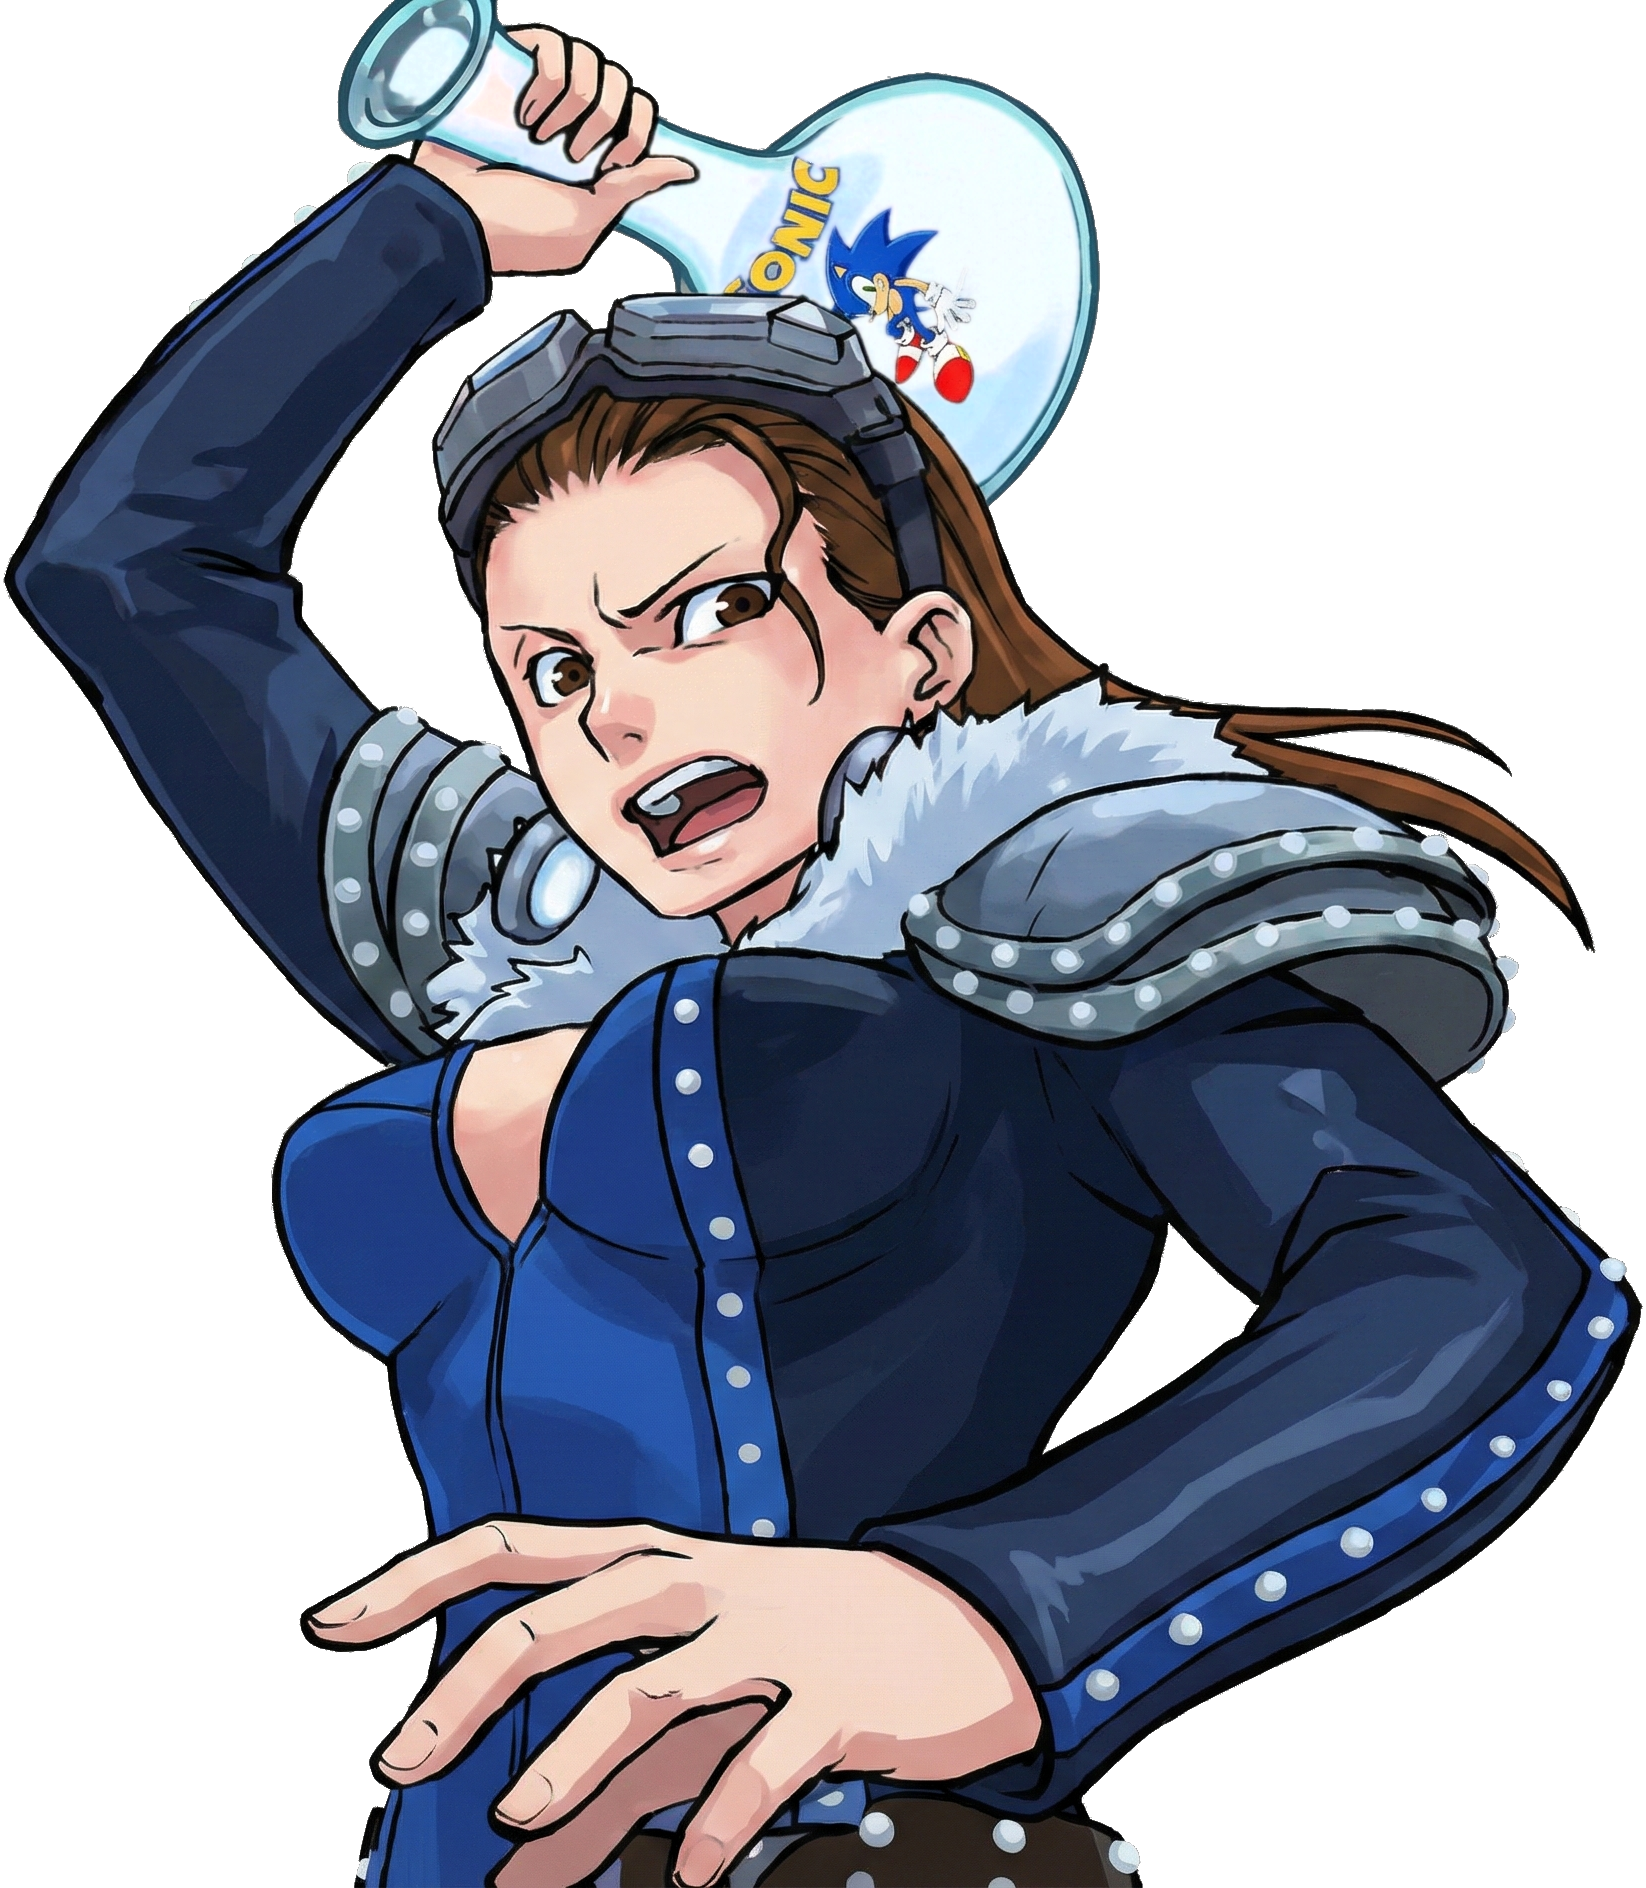
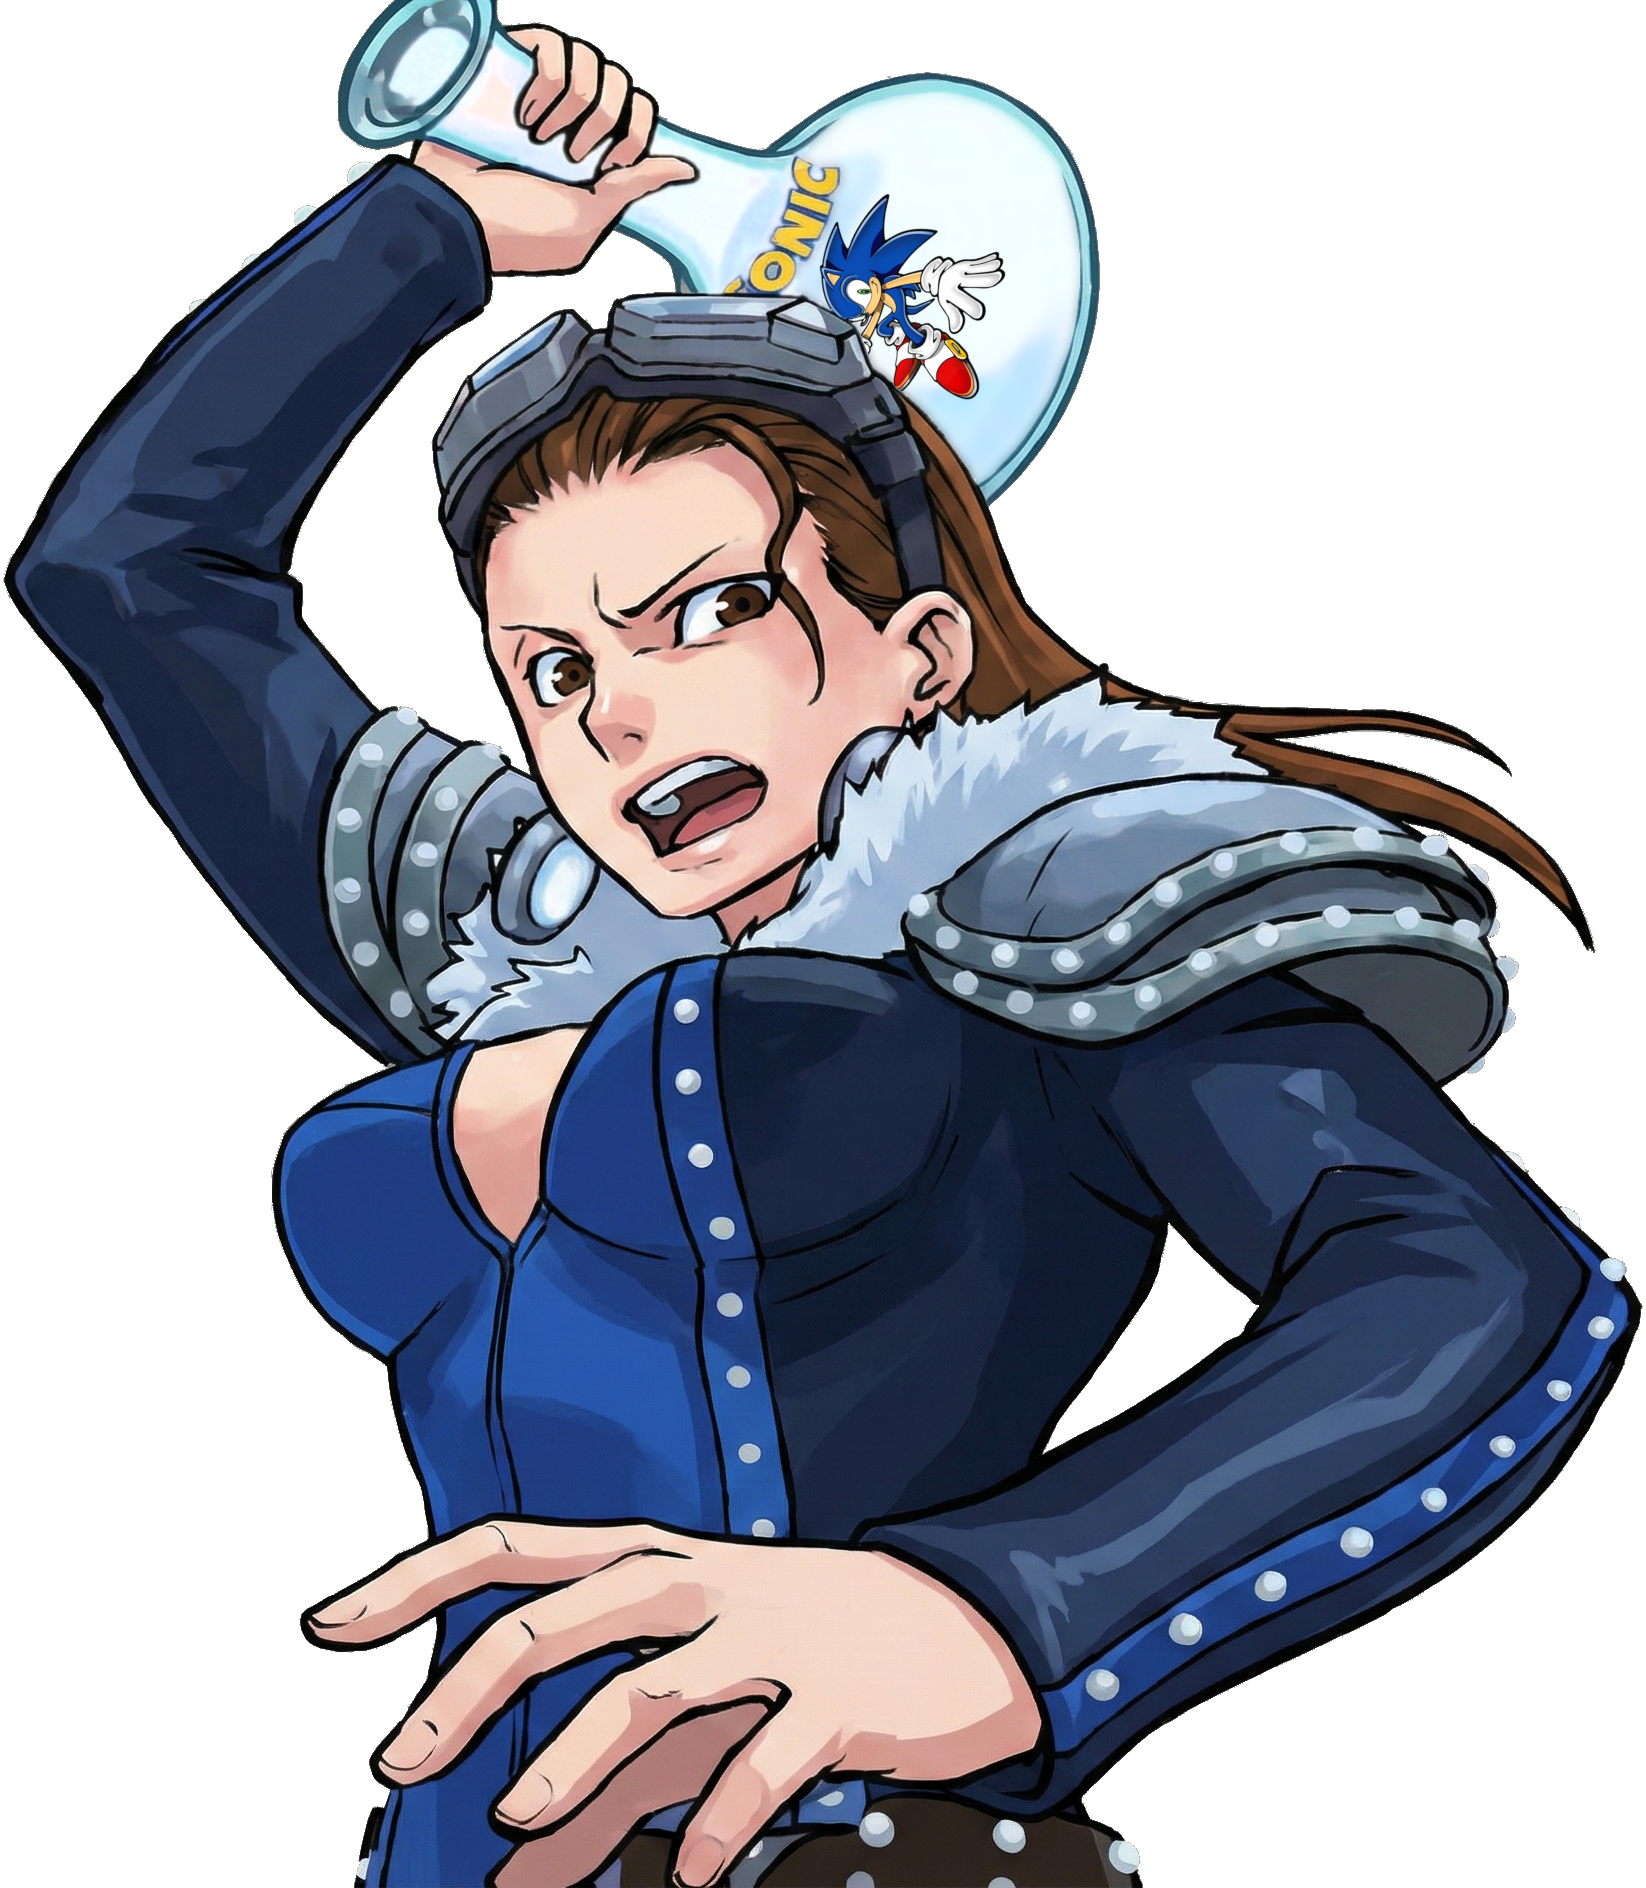
More backgrounds, CG and thumbnails

Changed region(s): [[0.4957, 0.0938, 0.6197, 0.2188]]

diff --git a/Gyakuten Saiban/CG/README.md b/Gyakuten Saiban/CG/README.md
@@ -25,6 +25,15 @@ CG artwork for the Don case.
 #### Crime scene
 ![Yumi Dead](Don/Yumi_Dead.png)
 
+#### Bloody glass
+
+![Bloody glass](Don/Bloody_glass.png)
+
+#### Panphlet
+![Panphlet](Don/Panphlet.png)
+
+#### Sonic
+![Sonic](Don/Sonic.png)
 ---
 
 ### Fly High - CG Images

diff --git a/Gyakuten Saiban/Court_Record/Locked room/evidence/README.md b/Gyakuten Saiban/Court_Record/Locked room/evidence/README.md
@@ -21,3 +21,6 @@ This folder contains evidence images for the Locked Room case.
 
 ### Zombie
 ![Zombie_will](Zombie_will.png)
+
+### Soy sauce
+![Soy_fish](Soy_fish.png)
